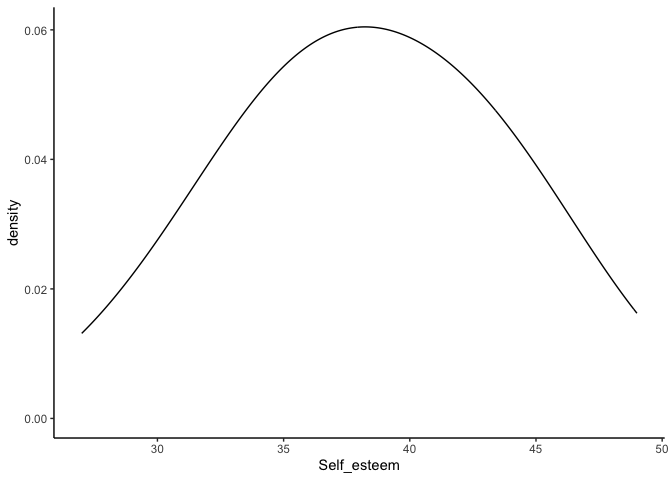
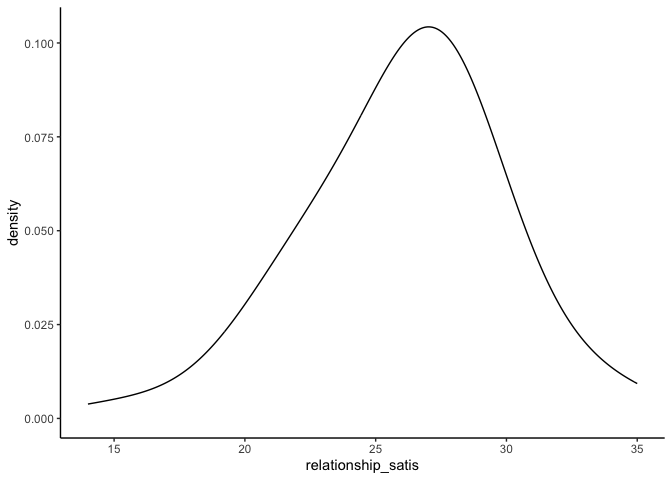
project

diff --git a/My-project.md b/My-project.md
@@ -141,19 +141,19 @@ dataset <- dataset %>%
 \#Normality \##Normality plots
 
 ``` r
-ggplot(dataset, aes(x = Self_esteem)) + geom_histogram(binwidth = 5) + theme_classic()
+ggplot(dataset, aes(x = relationship_satis)) + geom_histogram(binwidth = 5) + theme_classic()
 ```
 
 ![](My-project_files/figure-gfm/unnamed-chunk-3-1.png)<!-- -->
 
 ``` r
-ggplot(dataset, aes(x = Self_esteem)) + geom_density(adjust = 2)  + theme_classic()
+ggplot(dataset, aes(x = relationship_satis)) + geom_density(adjust = 2)  + theme_classic()
 ```
 
 ![](My-project_files/figure-gfm/unnamed-chunk-3-2.png)<!-- -->
 
 ``` r
-qq<-ggplot(dataset, aes(sample = Self_esteem)) + geom_qq()  + theme_classic()
+qq<-ggplot(dataset, aes(sample = relationship_satis)) + geom_qq()  + theme_classic()
 
 qq+ geom_qq_line()
 ```
@@ -162,19 +162,19 @@ qq+ geom_qq_line()
 \###Normality plots by gender
 
 ``` r
-ggplot(dataset, aes(x = Self_esteem)) + geom_histogram(binwidth = 5) + theme_classic() + facet_wrap(~gender) + theme_classic()
+ggplot(dataset, aes(x = relationship_satis)) + geom_histogram(binwidth = 5) + theme_classic() + facet_wrap(~gender) + theme_classic()
 ```
 
 ![](My-project_files/figure-gfm/unnamed-chunk-4-1.png)<!-- -->
 
 ``` r
-ggplot(dataset, aes(x = Self_esteem)) + geom_density(adjust = 2)  + theme_classic() + facet_wrap(~gender) + theme_classic()
+ggplot(dataset, aes(x = relationship_satis)) + geom_density(adjust = 2)  + theme_classic() + facet_wrap(~gender) + theme_classic()
 ```
 
 ![](My-project_files/figure-gfm/unnamed-chunk-4-2.png)<!-- -->
 
 ``` r
-qq<-ggplot(dataset, aes(sample = Self_esteem)) + geom_qq()  + theme_classic() + facet_wrap(~gender) + theme_classic()
+qq<-ggplot(dataset, aes(sample = relationship_satis)) + geom_qq()  + theme_classic() + facet_wrap(~gender) + theme_classic()
 
 qq+ geom_qq_line()+ facet_wrap(~gender) 
 ```
@@ -183,55 +183,55 @@ qq+ geom_qq_line()+ facet_wrap(~gender)
 \##Normality tests
 
 ``` r
-describe(dataset$Self_esteem)
+describe(dataset$relationship_satis)
 ```
 
-    ##    vars   n  mean   sd median trimmed  mad min max range skew kurtosis  se
-    ## X1    1 104 38.34 5.08     38    38.4 5.93  27  49    22 -0.1    -0.74 0.5
+    ##    vars   n  mean   sd median trimmed  mad min max range  skew kurtosis   se
+    ## X1    1 104 26.09 3.66     27   26.18 2.97  14  35    21 -0.45     0.89 0.36
 
 ``` r
-shapiro.test(dataset$Self_esteem)
+shapiro.test(dataset$relationship_satis)
 ```
 
     ## 
     ##  Shapiro-Wilk normality test
     ## 
-    ## data:  dataset$Self_esteem
-    ## W = 0.98194, p-value = 0.1684
+    ## data:  dataset$relationship_satis
+    ## W = 0.95627, p-value = 0.00171
 
 \###Normality tests by gender
 
 ``` r
 ?describeBy()
 
-describeBy(Self_esteem ~ gender, data = dataset)
+describeBy(relationship_satis ~ gender, data = dataset)
 ```
 
     ## 
     ##  Descriptive statistics by group 
     ## gender: Men
-    ##             vars  n mean   sd median trimmed  mad min max range  skew kurtosis
-    ## Self_esteem    1 46 38.7 5.26     38   38.74 6.67  27  47    20 -0.02    -1.03
-    ##               se
-    ## Self_esteem 0.78
+    ##                    vars  n  mean   sd median trimmed  mad min max range  skew
+    ## relationship_satis    1 46 25.91 3.73     27   26.08 2.97  16  35    19 -0.53
+    ##                    kurtosis   se
+    ## relationship_satis     0.46 0.55
     ## ------------------------------------------------------------ 
     ## gender: Women
-    ##             vars  n  mean   sd median trimmed  mad min max range  skew kurtosis
-    ## Self_esteem    1 58 38.05 4.96     38   38.17 4.45  27  49    22 -0.18     -0.6
-    ##               se
-    ## Self_esteem 0.65
+    ##                    vars  n  mean   sd median trimmed  mad min max range  skew
+    ## relationship_satis    1 58 26.22 3.64     27   26.25 2.97  14  35    21 -0.36
+    ##                    kurtosis   se
+    ## relationship_satis     1.09 0.48
 
 ``` r
 dataset %>%
   group_by(gender) %>%
-  summarize(W = shapiro.test(Self_esteem)$statistic, p_value = shapiro.test(Self_esteem)$p.value)
+  summarize(W = shapiro.test(relationship_satis)$statistic, p_value = shapiro.test(relationship_satis)$p.value)
 ```
 
     ## # A tibble: 2 × 3
     ##   gender     W p_value
     ##   <chr>  <dbl>   <dbl>
-    ## 1 Men    0.957  0.0875
-    ## 2 Women  0.986  0.729
+    ## 1 Men    0.945  0.0301
+    ## 2 Women  0.955  0.0298
 
 # Equal Variance between Groups
 
@@ -240,27 +240,27 @@ dataset %>%
 ``` r
 data_clean<-drop_na(dataset)
 
-var(data_clean$Self_esteem)
+var(data_clean$relationship_satis)
 ```
 
-    ## [1] 25.81768
+    ## [1] 13.41962
 
 ``` r
 data_clean %>%
   group_by(gender) %>%
-  summarize(variance = var(Self_esteem))
+  summarize(variance = var(relationship_satis))
 ```
 
     ## # A tibble: 2 × 2
     ##   gender variance
     ##   <chr>     <dbl>
-    ## 1 Men        27.6
-    ## 2 Women      24.6
+    ## 1 Men        13.9
+    ## 2 Women      13.2
 
 ## Equal Variance Test
 
 ``` r
-leveneTest(Self_esteem~gender, data_clean)
+leveneTest(relationship_satis~gender, data_clean)
 ```
 
     ## Warning in leveneTest.default(y = y, group = group, ...): group coerced to
@@ -268,11 +268,11 @@ leveneTest(Self_esteem~gender, data_clean)
 
     ## Levene's Test for Homogeneity of Variance (center = median)
     ##        Df F value Pr(>F)
-    ## group   1  0.6845   0.41
+    ## group   1   5e-04 0.9828
     ##       102
 
 ``` r
-MANOVA(data_clean, dv = "Self_esteem", between = "gender")
+MANOVA(data_clean, dv = "relationship_satis", between = "gender")
 ```
 
     ## 
@@ -282,21 +282,21 @@ MANOVA(data_clean, dv = "Self_esteem", between = "gender")
     ## ───────────────────────────
     ##  "gender"   Mean    S.D.  n
     ## ───────────────────────────
-    ##     Men   38.696 (5.257) 46
-    ##     Women 38.052 (4.965) 58
+    ##     Men   25.913 (3.729) 46
+    ##     Women 26.224 (3.637) 58
     ## ───────────────────────────
     ## Total sample size: N = 104
     ## 
     ## ANOVA Table:
-    ## Dependent variable(s):      Self_esteem
+    ## Dependent variable(s):      relationship_satis
     ## Between-subjects factor(s): gender
     ## Within-subjects factor(s):  –
     ## Covariate(s):               –
-    ## ──────────────────────────────────────────────────────────────────────
-    ##             MS    MSE df1 df2     F     p     η²p [90% CI of η²p]  η²G
-    ## ──────────────────────────────────────────────────────────────────────
-    ## gender  10.637 25.967   1 102 0.410  .524       .004 [.000, .048] .004
-    ## ──────────────────────────────────────────────────────────────────────
+    ## ─────────────────────────────────────────────────────────────────────
+    ##            MS    MSE df1 df2     F     p     η²p [90% CI of η²p]  η²G
+    ## ─────────────────────────────────────────────────────────────────────
+    ## gender  2.483 13.527   1 102 0.184  .669       .002 [.000, .038] .002
+    ## ─────────────────────────────────────────────────────────────────────
     ## MSE = mean square error (the residual variance of the linear model)
     ## η²p = partial eta-squared = SS / (SS + SSE) = F * df1 / (F * df1 + df2)
     ## ω²p = partial omega-squared = (F - 1) * df1 / (F * df1 + df2 + 1)
@@ -304,11 +304,11 @@ MANOVA(data_clean, dv = "Self_esteem", between = "gender")
     ## Cohen’s f² = η²p / (1 - η²p)
     ## 
     ## Levene’s Test for Homogeneity of Variance:
-    ## ─────────────────────────────────────────────
-    ##                  Levene’s F df1 df2     p    
-    ## ─────────────────────────────────────────────
-    ## DV: Self_esteem       0.807   1 102  .371    
-    ## ─────────────────────────────────────────────
+    ## ────────────────────────────────────────────────────
+    ##                         Levene’s F df1 df2     p    
+    ## ────────────────────────────────────────────────────
+    ## DV: relationship_satis       0.002   1 102  .963    
+    ## ────────────────────────────────────────────────────
 
 \#Summary Descriptive Statistics
 
